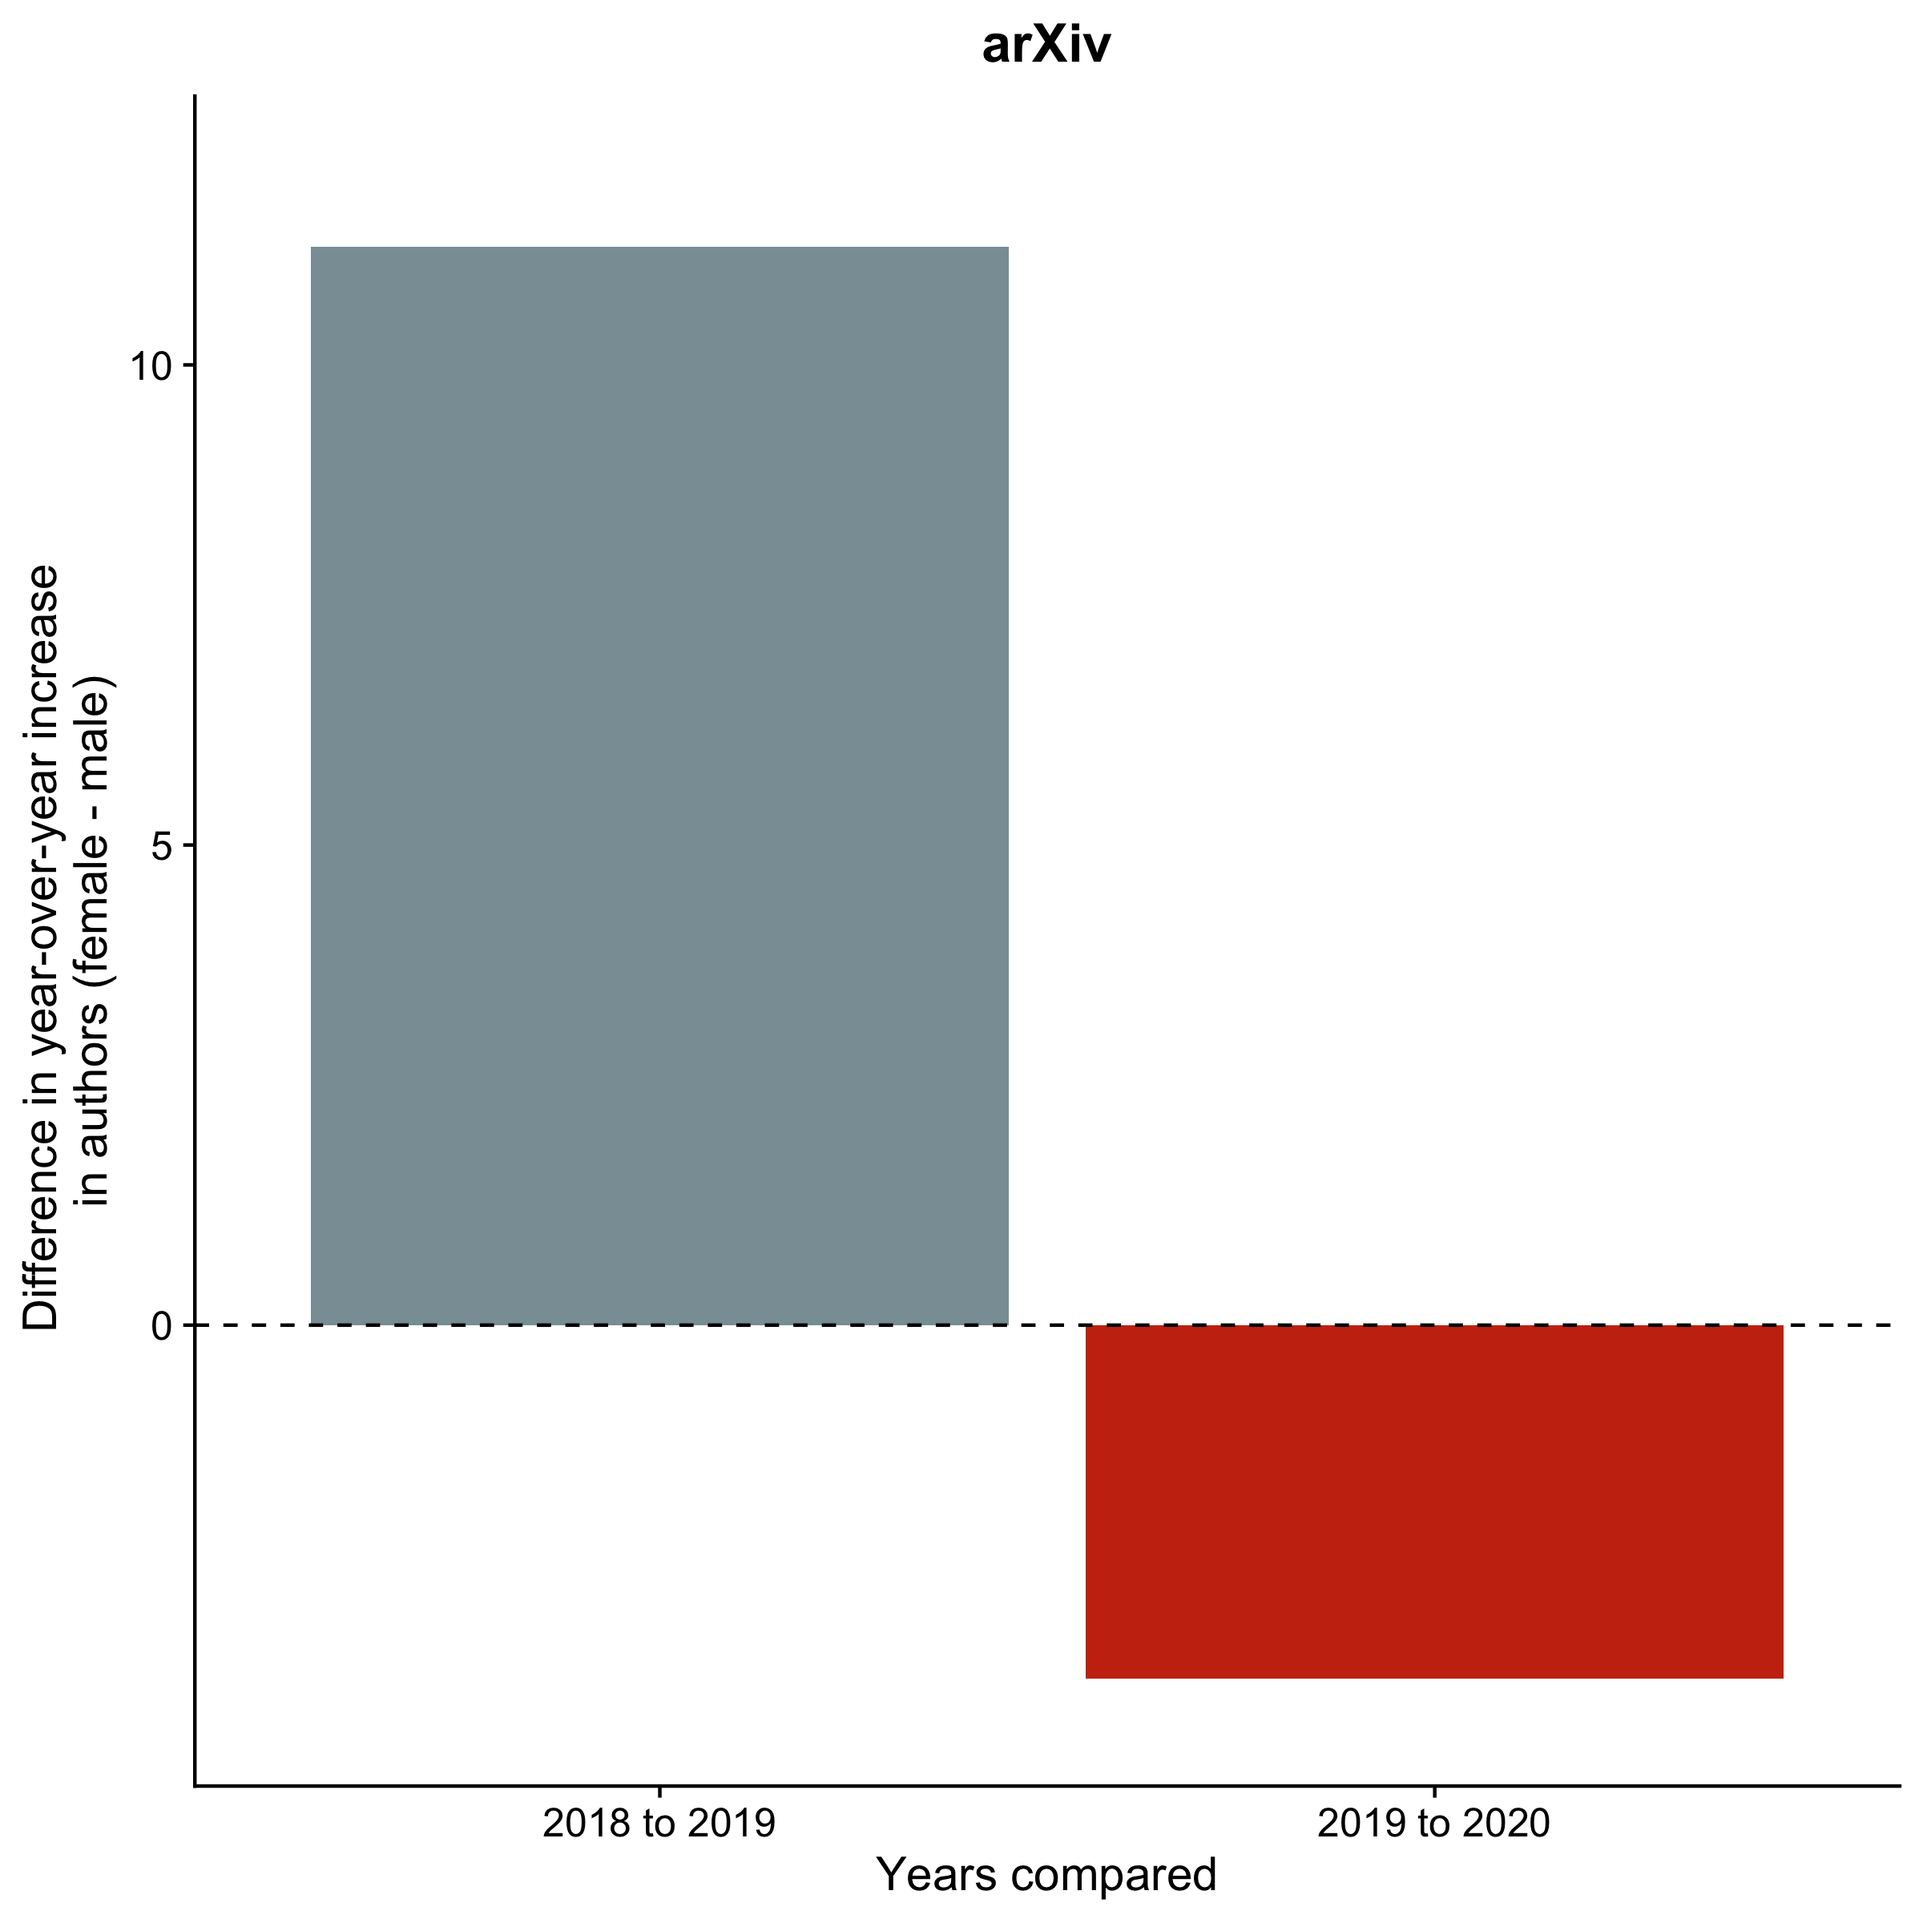
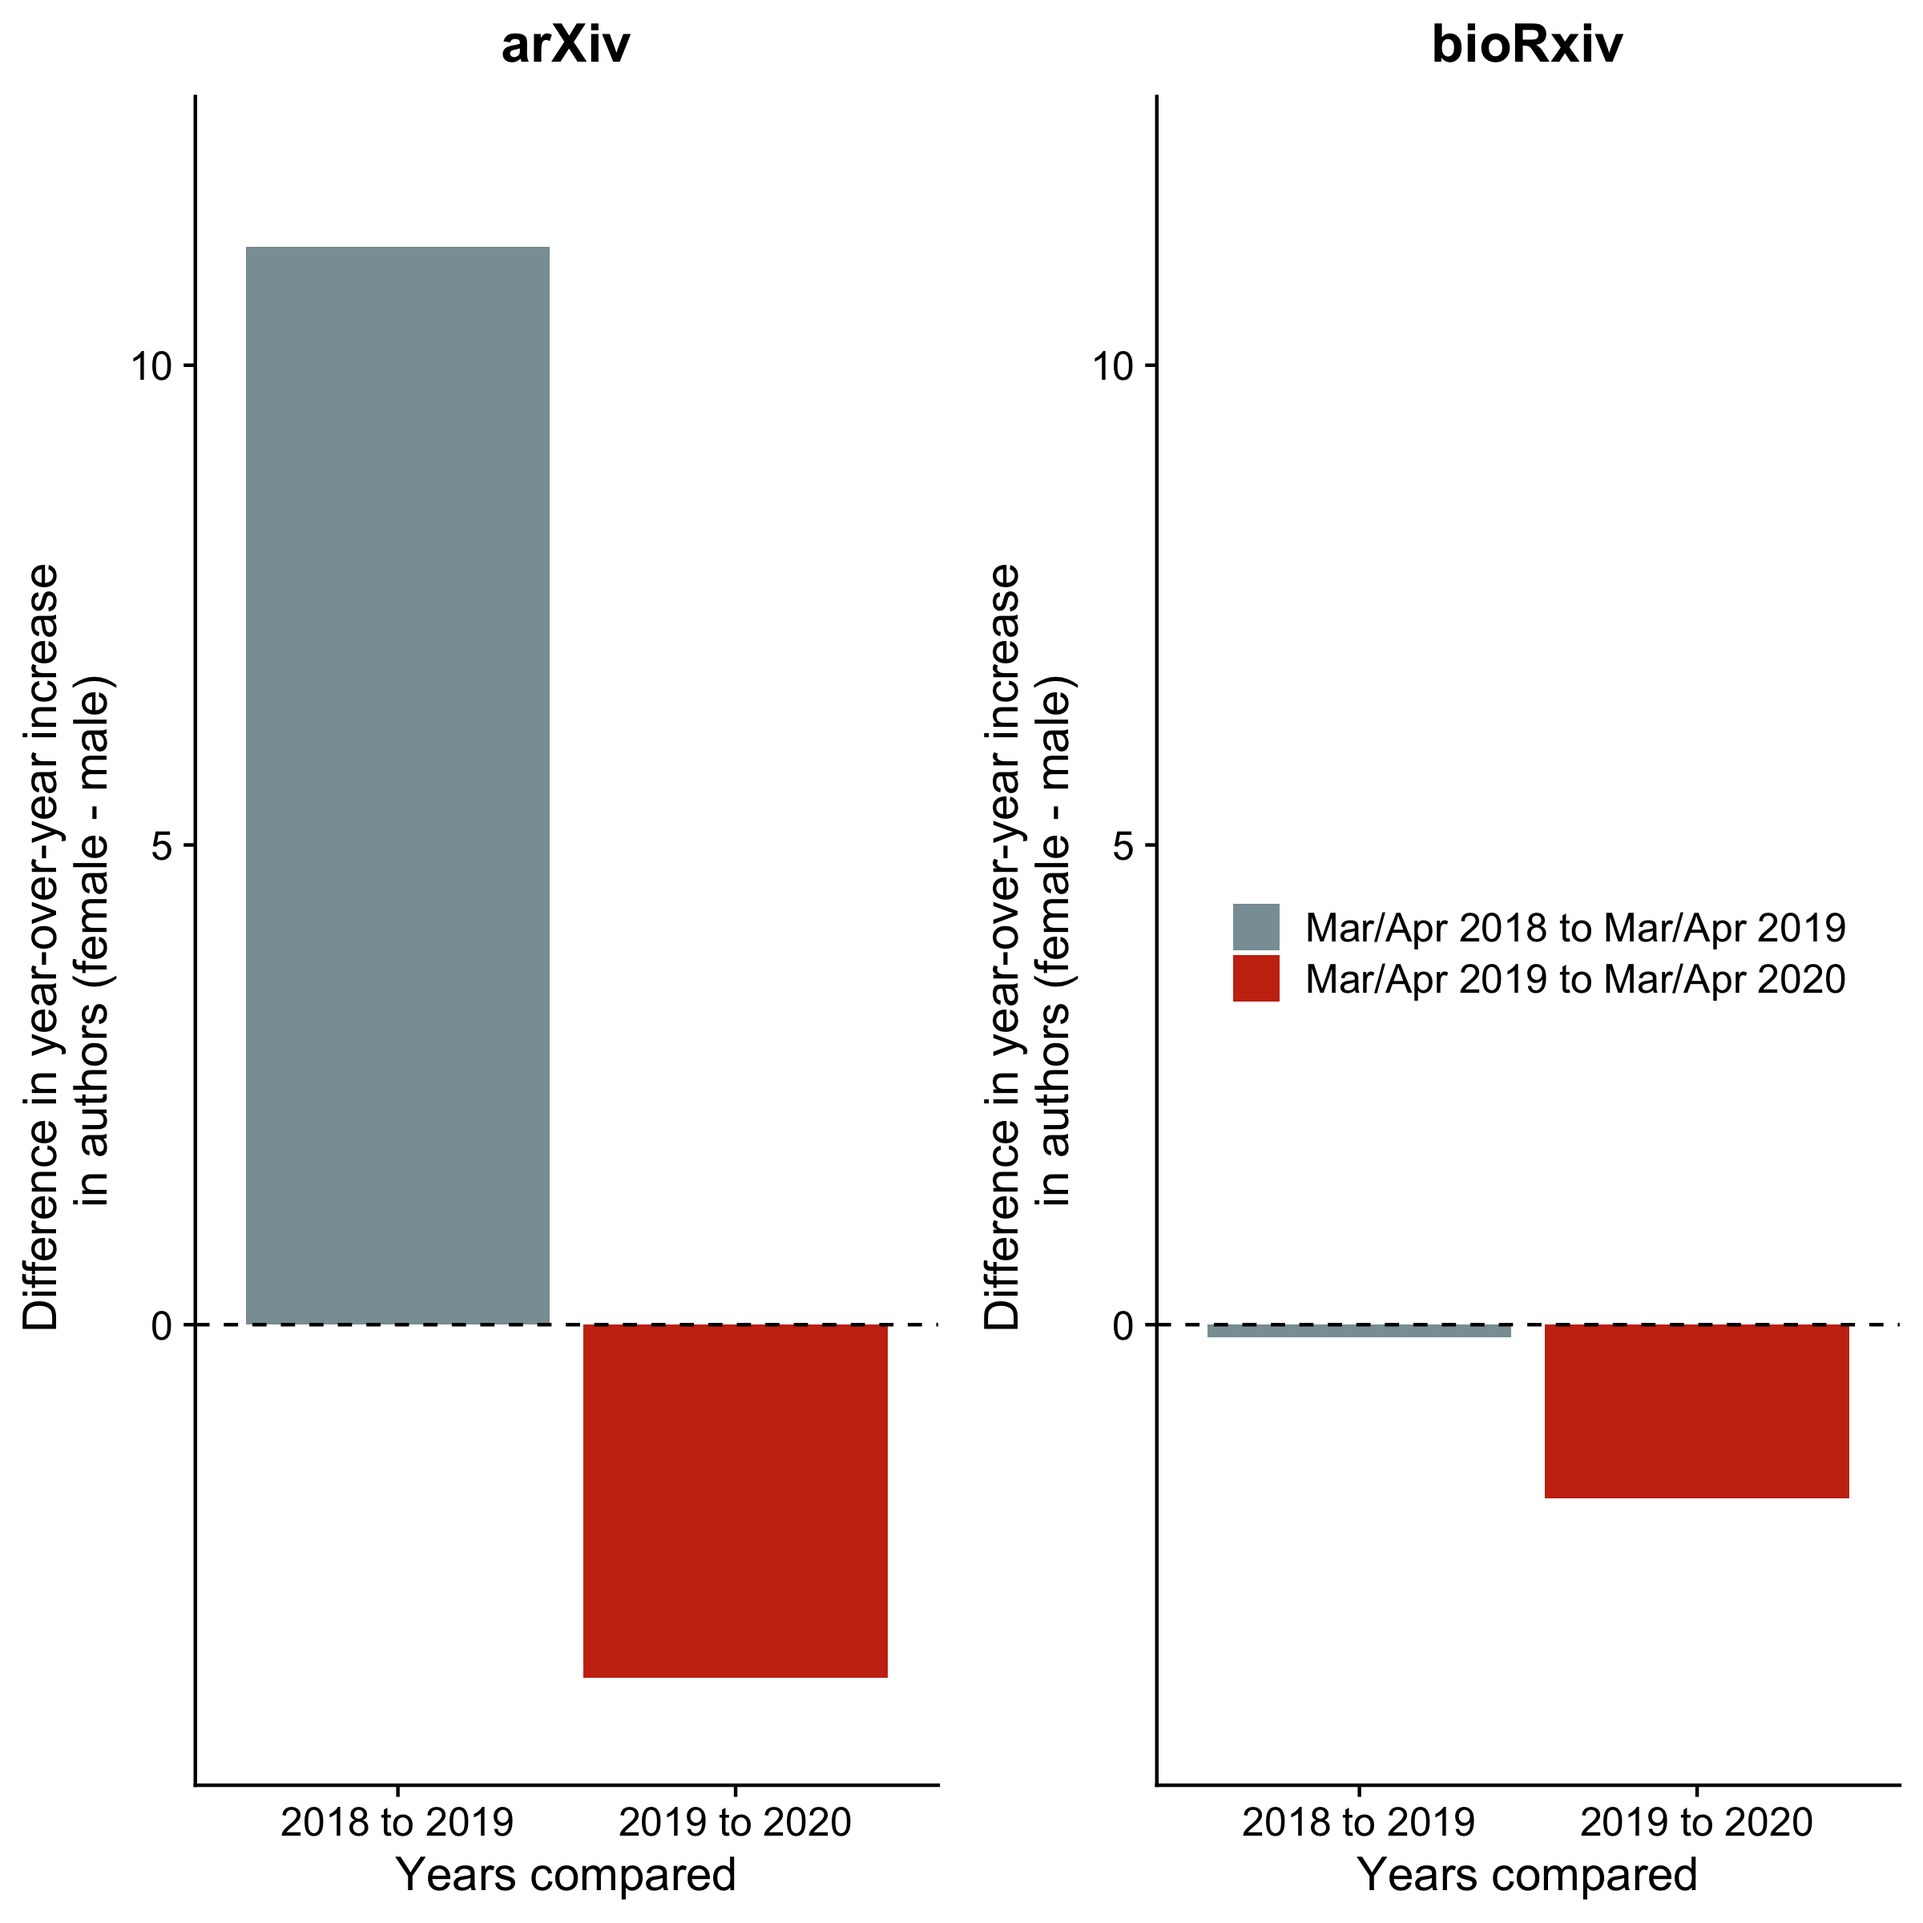
Commit from RStudio

diff --git a/README.md b/README.md
@@ -565,12 +565,7 @@ all.t.t$Year <- c("2019 to 2020","2018 to 2019")
 
 #Make figure 
 p9 <- ggplot(data=all.t.t, aes(fill=Year, y=dif, x=Year))+geom_bar(position="dodge", stat="identity")+theme_cowplot()+xlab("Years compared")+scale_fill_manual(values=wes_palette("Royal1"), labels=c("Mar/Apr 2018 to Mar/Apr 2019", "Mar/Apr 2019 to Mar/Apr 2020"))+ggtitle("arXiv")+ylab("Difference in year-over-year increase \nin authors (female - male)")+ theme(legend.position = "none", legend.title = element_blank(), plot.title = element_text(hjust = 0.5))+geom_hline(aes(yintercept=0), linetype="dashed")+scale_y_continuous(limits=c(-4,12))
-p9
-```
 
-![](README_files/figure-gfm/The%20Conversation%20figure-1.png)<!-- -->
-
-``` r
 #bioRxiv, simplified
 biorxiv.yr.wide$per.dif.1819 <- ((biorxiv.yr.wide$`2019`-biorxiv.yr.wide$`2018`)/(biorxiv.yr.wide$`2018`))*100 #Calculate percent change, 2019 over 2018
 bio.t <- setNames(data.frame(t(biorxiv.yr.wide[,-1])), biorxiv.yr.wide[,1])
@@ -580,17 +575,12 @@ bio.t$Year <- c("2019 to 2020","2018 to 2019")
 
 #Make figure 
 p10 <- ggplot(data=bio.t, aes(fill=Year, y=dif, x=Year))+geom_bar(position="dodge", stat="identity")+theme_cowplot()+xlab("Years compared")+scale_fill_manual(values=wes_palette("Royal1"), labels=c("Mar/Apr 2018 to Mar/Apr 2019", "Mar/Apr 2019 to Mar/Apr 2020"))+ggtitle("bioRxiv")+ylab("Difference in year-over-year increase \nin authors (female - male)")+ theme(legend.position = c(0.1, 0.5), legend.title = element_blank(), plot.title = element_text(hjust = 0.5))+geom_hline(aes(yintercept=0), linetype="dashed")+scale_y_continuous(limits=c(-4,12))
-p10
-```
 
-![](README_files/figure-gfm/The%20Conversation%20figure-2.png)<!-- -->
-
-``` r
 p11<- plot_grid(p9, p10, nrow=1)
 p11
 ```
 
-![](README_files/figure-gfm/The%20Conversation%20figure-3.png)<!-- -->
+![](README_files/figure-gfm/The%20Conversation%20figure-1.png)<!-- -->
 
 ``` r
 save_plot("Conversation_figure.png", p11, base_height=8, base_width=8)
